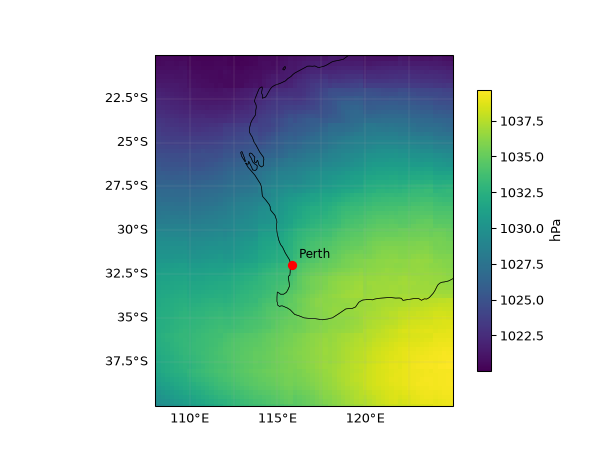
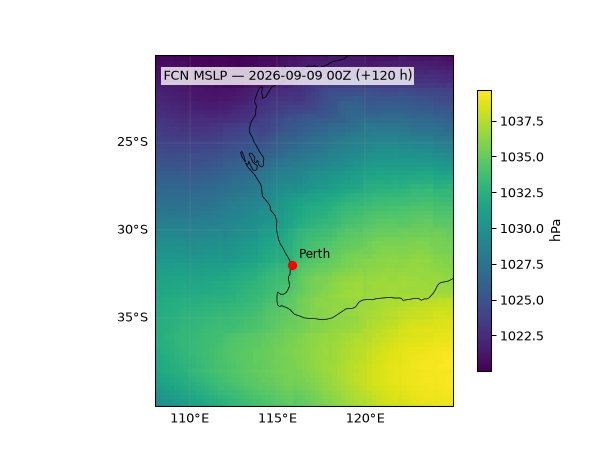
Rework plotting on xarray API + fix titles/dates
- plot_field/plot_field_grid/plot_wind now draw fields via xarray's .plot()
  (per the review), adding cartopy features + Perth marker on top.
- Fix the cartopy title-clipping: GeoAxes fill their box under fixed aspect so
  set_title clips; use in-panel labels (top-left, white box) instead — always
  render. Daily sequence panels are now titled by VALID DATE (init + lead), with
  an overall suptitle; wind/MSLP get dated in-panel titles.
- Thin gridline labels (fixed 5° locators) so longitude labels stop crowding.
- Shared colorbar placed in a dedicated axis (no overlap with panels).
- scripts/plot_forecast.py adds a valid_time coord and passes title_coord.

Claude-Session: https://claude.ai/code/session_01UmqX6oW719q9hnRWHSzg1d

diff --git a/src/perthwx/plotting.py b/src/perthwx/plotting.py
@@ -1,21 +1,19 @@
 """Plotting utilities for weather-forecast fields over Perth, Western Australia.
 
-Visualise 2-D meteorological fields (temperature, pressure, wind) using Cartopy
-and Matplotlib on the PlateCarree projection, centred on the Perth region.
+Thin wrappers over xarray's plotting API (which handles facets, per-panel titles
+and shared colorbars out of the box), adding cartopy coastlines/features, the
+Perth marker, and the Perth map extent. PlateCarree throughout.
 
-Drafted with the local qwen model, then reviewed/fixed on integration:
-- `plot_field` now resolves the figure when an existing axis is passed (qwen's
-  draft raised NameError on `fig`);
-- added an `add_colorbar` flag so grid panels share one colorbar;
-- `plot_field_grid` was rewritten cleanly (the draft left reasoning comments and
-  a broken colorbar-removal hack).
+`constrained_layout` is used so titles/colorbars are never clipped on save
+(cartopy GeoAxes are incompatible with ``bbox_inches="tight"``).
 """
 from __future__ import annotations
 
 import numpy as np
 import xarray as xr
-import matplotlib as mpl
 import matplotlib.pyplot as plt
+import matplotlib as mpl
+import matplotlib.ticker as mticker
 import cartopy.crs as ccrs
 import cartopy.feature as cfeature
 
@@ -24,16 +22,15 @@ PERTH_LAT = -31.95
 PERTH_EXTENT = [108.0, 125.0, -40.0, -20.0]  # [lon_min, lon_max, lat_min, lat_max]
 
 
-def _basemap(ax: "plt.Axes", extent: list[float] = PERTH_EXTENT) -> "plt.Axes":
-    """Add coastlines, borders, states, and gridlines to a GeoAxes.
+def _new_geoaxes() -> "plt.Axes":
+    # No constrained_layout: with cartopy's fixed aspect it doesn't reserve title
+    # room, so titles clip. We reserve room explicitly via subplots_adjust.
+    _, ax = plt.subplots(subplot_kw={"projection": ccrs.PlateCarree()})
+    return ax
 
-    Args:
-        ax: The Cartopy GeoAxes to configure.
-        extent: Map extent [lon_min, lon_max, lat_min, lat_max].
 
-    Returns:
-        The configured GeoAxes.
-    """
+def _decorate(ax: "plt.Axes", extent: list[float] = PERTH_EXTENT, mark: bool = True) -> "plt.Axes":
+    """Add coastlines/features, gridlines, extent, and (optionally) the Perth marker."""
     ax.set_extent(extent, crs=ccrs.PlateCarree())
     ax.coastlines(linewidth=0.5)
     ax.add_feature(cfeature.BORDERS, linewidth=0.4, alpha=0.5)
@@ -41,29 +38,37 @@ def _basemap(ax: "plt.Axes", extent: list[float] = PERTH_EXTENT) -> "plt.Axes":
     gl = ax.gridlines(draw_labels=True, linewidth=0.3, alpha=0.4)
     gl.top_labels = False
     gl.right_labels = False
+    gl.xlocator = mticker.FixedLocator([110, 115, 120, 125])
+    gl.ylocator = mticker.FixedLocator([-40, -35, -30, -25, -20])
+    if mark:
+        ax.plot([PERTH_LON], [PERTH_LAT], marker="o", color="red", markersize=6,
+                zorder=10, transform=ccrs.PlateCarree())
+        ax.annotate("Perth", xy=(PERTH_LON, PERTH_LAT), xytext=(5, 5),
+                    textcoords="offset points", fontsize=9, zorder=11)
     return ax
 
 
-def mark_perth(ax: "plt.Axes", label: bool = True) -> "plt.Axes":
-    """Mark the location of Perth on a GeoAxes.
+def _inpanel_label(ax: "plt.Axes", text: str, fontsize: int = 10) -> None:
+    """Draw a label inside the top-left of a map panel on a small white box.
 
-    Args:
-        ax: The Cartopy GeoAxes to plot on.
-        label: Whether to annotate the marker with the text "Perth".
-
-    Returns:
-        The GeoAxes with the marker added.
+    cartopy GeoAxes fill their box under fixed aspect, so ``set_title`` clips;
+    an in-panel anchored label always renders (a common weather-map convention).
     """
-    ax.plot(
-        [PERTH_LON], [PERTH_LAT], marker="o", color="red", markersize=6,
-        zorder=10, transform=ccrs.PlateCarree(),
+    ax.text(
+        0.03, 0.96, text, transform=ax.transAxes, va="top", ha="left",
+        fontsize=fontsize, zorder=20,
+        bbox=dict(facecolor="white", alpha=0.78, edgecolor="none", pad=1.5),
     )
-    if label:
-        ax.annotate(
-            "Perth", xy=(PERTH_LON, PERTH_LAT), xytext=(5, 5),
-            textcoords="offset points", fontsize=9, zorder=11,
-        )
-    return ax
+
+
+def _coord_label(value) -> str:
+    """Human-readable label for a coordinate value (handles datetimes/timedeltas)."""
+    arr = np.asarray(value)
+    if np.issubdtype(arr.dtype, np.datetime64):
+        return np.datetime_as_string(arr, unit="h").replace("T", " ") + "Z"
+    if np.issubdtype(arr.dtype, np.timedelta64):
+        return f"+{arr / np.timedelta64(1, 'h'):.0f} h"
+    return str(value)
 
 
 def plot_field(
@@ -78,48 +83,33 @@ def plot_field(
     mark: bool = True,
     add_colorbar: bool = True,
 ) -> "plt.Axes":
-    """Plot a single 2-D field over the Perth region.
+    """Plot a single 2-D field over Perth via ``xarray.DataArray.plot``.
 
     Args:
-        da: A 2-D DataArray with dimensions "lat" and "lon".
-        ax: Existing GeoAxes, or None to create a new figure/axes.
-        cmap: Colormap name.
-        vmin, vmax: Colour limits.
-        title: Optional axis title.
+        da: A 2-D DataArray with dims "lat"/"lon".
+        ax: Existing GeoAxes, or None to create one.
+        cmap, vmin, vmax: Colour mapping.
+        title: Axis title ("" clears xarray's auto-title).
         cbar_label: Colorbar label (used when add_colorbar is True).
-        extent: Map extent.
-        mark: Whether to mark Perth.
-        add_colorbar: Whether to attach a colorbar to this axis.
+        extent: Map extent. mark: whether to mark Perth.
+        add_colorbar: Attach a colorbar to this axis.
 
     Returns:
-        The GeoAxes containing the plot.
+        The GeoAxes.
     """
     if ax is None:
-        _, ax = plt.subplots(subplot_kw={"projection": ccrs.PlateCarree()})
-    fig = ax.get_figure()
-
-    mesh = ax.pcolormesh(
-        da.lon, da.lat, da, transform=ccrs.PlateCarree(),
-        cmap=cmap, vmin=vmin, vmax=vmax, shading="auto",
+        ax = _new_geoaxes()
+    mappable = da.plot(
+        ax=ax, x="lon", y="lat", transform=ccrs.PlateCarree(),
+        cmap=cmap, vmin=vmin, vmax=vmax, add_colorbar=False,
     )
-    _basemap(ax, extent=extent)
-    if mark:
-        mark_perth(ax)
-    if add_colorbar:
-        fig.colorbar(mesh, ax=ax, label=cbar_label, shrink=0.8)
+    _decorate(ax, extent, mark)
+    ax.set_title("")
     if title:
-        ax.set_title(title)
+        _inpanel_label(ax, title)
+    if add_colorbar:
+        ax.get_figure().colorbar(mappable, ax=ax, label=cbar_label, shrink=0.8)
     return ax
-
-
-def _coord_label(value) -> str:
-    """Human-readable panel title for a coordinate value (handles datetimes)."""
-    arr = np.asarray(value)
-    if np.issubdtype(arr.dtype, np.datetime64):
-        return np.datetime_as_string(arr, unit="h")
-    if np.issubdtype(arr.dtype, np.timedelta64):
-        return f"+{arr / np.timedelta64(1, 'h'):.0f} h"
-    return str(value)
 
 
 def plot_field_grid(
@@ -131,53 +121,50 @@ def plot_field_grid(
     ncols: int = 4,
     cbar_label: str | None = None,
     extent: list[float] = PERTH_EXTENT,
+    title_coord: str | None = None,
 ) -> "mpl.figure.Figure":
-    """Small-multiples: one Perth panel per value along dimension ``col``.
+    """Small-multiples over dimension ``col`` via xarray's faceted plotting.
 
-    All panels share a colour scale and a single figure-level colorbar.
-
-    Args:
-        da: DataArray with a dimension ``col`` (e.g. "lead_time" or "time") plus
-            "lat"/"lon".
-        col: Dimension to iterate over.
-        cmap: Colormap name.
-        vmin, vmax: Shared colour limits; derived from ``da`` if None.
-        ncols: Number of columns.
-        cbar_label: Shared colorbar label.
-        extent: Map extent.
+    xarray handles the grid, shared colorbar and layout; we add cartopy features
+    per panel and (optionally) title panels by ``title_coord`` (e.g. "valid_time"
+    for dates instead of the raw lead-time offset).
 
     Returns:
-        The Figure containing the grid.
+        The Figure.
     """
     n = int(da.sizes[col])
     ncols = min(ncols, n)
     nrows = int(np.ceil(n / ncols))
-
     if vmin is None:
         vmin = float(da.min())
     if vmax is None:
         vmax = float(da.max())
 
+    # Explicit grid layout (cartopy GeoAxes + xarray's auto-colorbar don't leave
+    # room for titles). xarray draws each field; we place a shared colorbar in a
+    # dedicated axis and reserve top/row space for the per-panel date titles.
     fig, axes = plt.subplots(
-        nrows, ncols, squeeze=False,
+        nrows, ncols, figsize=(3.7 * ncols, 3.7 * nrows), squeeze=False,
         subplot_kw={"projection": ccrs.PlateCarree()},
-        figsize=(4.0 * ncols, 3.2 * nrows),
     )
-    axes_flat = axes.flatten()
+    axf = axes.flatten()
+    mappable = None
+    label_coord = title_coord if title_coord is not None else col
+    for i, ax in enumerate(axf):
+        if i < n:
+            mappable = da.isel({col: i}).plot(
+                ax=ax, x="lon", y="lat", transform=ccrs.PlateCarree(),
+                cmap=cmap, vmin=vmin, vmax=vmax, add_colorbar=False,
+            )
+            _decorate(ax, extent, mark=False)
+            _inpanel_label(ax, _coord_label(da[label_coord].values[i]))
+        else:
+            ax.set_visible(False)
 
-    last_ax = None
-    for i in range(n):
-        plot_field(
-            da.isel({col: i}), ax=axes_flat[i], cmap=cmap, vmin=vmin, vmax=vmax,
-            title=_coord_label(da[col].values[i]), extent=extent,
-            mark=False, add_colorbar=False,
-        )
-        last_ax = axes_flat[i]
-    for j in range(n, len(axes_flat)):
-        axes_flat[j].set_visible(False)
-
-    if last_ax is not None and last_ax.collections:
-        fig.colorbar(last_ax.collections[0], ax=axes, label=cbar_label, shrink=0.8)
+    fig.subplots_adjust(left=0.05, right=0.88, top=0.90, bottom=0.05,
+                        hspace=0.35, wspace=0.12)
+    cax = fig.add_axes([0.90, 0.15, 0.015, 0.7])
+    fig.colorbar(mappable, cax=cax, label=cbar_label)
     return fig
 
 
@@ -190,41 +177,22 @@ def plot_wind(
     extent: list[float] = PERTH_EXTENT,
     background_speed: bool = True,
 ) -> "plt.Axes":
-    """Plot 10 m wind (quiver) with an optional wind-speed background.
-
-    Args:
-        u: Eastward wind component (m/s), dims "lat"/"lon".
-        v: Northward wind component (m/s), dims "lat"/"lon".
-        ax: Existing GeoAxes, or None to create a new figure/axes.
-        step: Subsampling stride for the quiver arrows.
-        title: Optional axis title.
-        extent: Map extent.
-        background_speed: Whether to shade wind speed behind the arrows.
-
-    Returns:
-        The GeoAxes containing the plot.
-    """
+    """Plot 10 m wind (quiver) with an optional xarray-drawn speed background."""
     if ax is None:
-        _, ax = plt.subplots(subplot_kw={"projection": ccrs.PlateCarree()})
-    fig = ax.get_figure()
-
+        ax = _new_geoaxes()
     if background_speed:
         speed = np.sqrt(u**2 + v**2)
-        mesh = ax.pcolormesh(
-            u.lon, u.lat, speed, transform=ccrs.PlateCarree(),
-            cmap="viridis", shading="auto",
+        mappable = speed.plot(
+            ax=ax, x="lon", y="lat", transform=ccrs.PlateCarree(), cmap="viridis",
+            add_colorbar=False,
         )
-        fig.colorbar(mesh, ax=ax, label="wind speed (m/s)", shrink=0.8)
-
+        ax.get_figure().colorbar(mappable, ax=ax, label="wind speed (m/s)", shrink=0.8)
     u_sub = u.isel(lat=slice(None, None, step), lon=slice(None, None, step))
     v_sub = v.isel(lat=slice(None, None, step), lon=slice(None, None, step))
-    ax.quiver(
-        u_sub.lon, u_sub.lat, u_sub, v_sub,
-        transform=ccrs.PlateCarree(), scale=100, width=0.002,
-    )
-
-    _basemap(ax, extent=extent)
-    mark_perth(ax)
+    ax.quiver(u_sub.lon, u_sub.lat, u_sub, v_sub,
+              transform=ccrs.PlateCarree(), scale=100, width=0.002)
+    _decorate(ax, extent, mark=True)
+    ax.set_title("")
     if title:
-        ax.set_title(title)
+        _inpanel_label(ax, title)
     return ax

diff --git a/scripts/plot_forecast.py b/scripts/plot_forecast.py
@@ -38,26 +38,32 @@ def main(argv: list[str] | None = None) -> None:
 
     ds = crop_to_perth(open_forecast(a.zarr)).squeeze()
     lt = ds.lead_time.values
-    init = np.datetime_as_string(np.asarray(ds.time.values).ravel()[0], unit="h")
+    init_dt = np.asarray(ds.time.values).ravel()[0]
+    init = np.datetime_as_string(init_dt, unit="h").replace("T", " ") + "Z"
+    # valid time per lead step (init + lead), as a coordinate for panel titles
+    ds = ds.assign_coords(valid_time=("lead_time", init_dt + lt))
 
-    # 1. daily 2 m temperature sequence
+    def valid_str(i: int) -> str:
+        return np.datetime_as_string(init_dt + lt[i], unit="h").replace("T", " ") + "Z"
+
+    # 1. daily 2 m temperature sequence — panels titled by valid date
     t2m = ds["t2m"] - 273.15
     seq = t2m.isel(lead_time=slice(0, None, 4))
     fig = P.plot_field_grid(seq, col="lead_time", ncols=4, cmap="RdYlBu_r",
-                            cbar_label="2 m temperature (°C)")
-    fig.suptitle(f"FCN 2 m temperature over Perth — init {init} (GFS)", y=1.02)
+                            cbar_label="2 m temperature (°C)", title_coord="valid_time")
+    fig.suptitle(f"FCN 2 m temperature over Perth — daily, init {init} (GFS)", y=0.97)
     fig.savefig(outdir / "perth_t2m_sequence.png", dpi=95, bbox_inches=None)
 
     # 2. 10 m wind at +72 h
     i = _hour_index(lt, 72)
     ax = P.plot_wind(ds["u10m"].isel(lead_time=i), ds["v10m"].isel(lead_time=i),
-                     title=f"FCN 10 m wind over Perth, +72 h — init {init}")
+                     title=f"FCN 10 m wind — {valid_str(i)} (+72 h)")
     ax.get_figure().savefig(outdir / "perth_wind_72h.png", dpi=95)
 
     # 3. MSLP at +120 h
     i = _hour_index(lt, 120)
     ax = P.plot_field(ds["msl"].isel(lead_time=i) / 100.0, cmap="viridis",
-                      title=f"FCN mean sea-level pressure, +120 h — init {init}",
+                      title=f"FCN MSLP — {valid_str(i)} (+120 h)",
                       cbar_label="hPa")
     ax.get_figure().savefig(outdir / "perth_mslp_120h.png", dpi=95)
 
